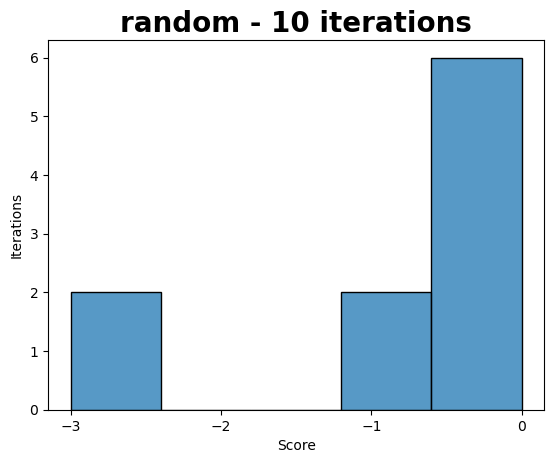
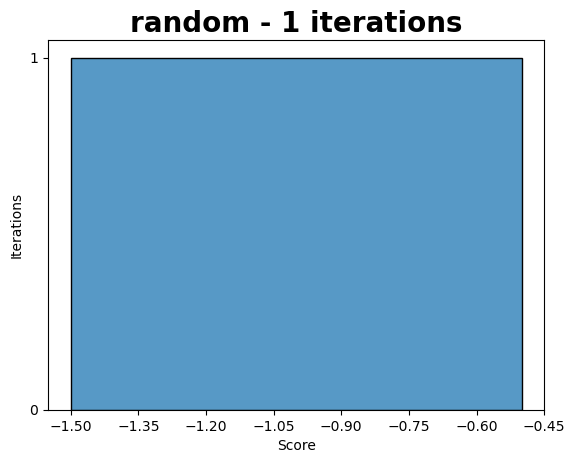
main experiments iterative

diff --git a/main.py b/main.py
@@ -89,15 +89,30 @@ def plot_hist(scores, filename, title):
     plt.show()
 
 
-if __name__ == "__main__":
-    # Check for the correct command line input
-    if len(argv) == 1:
-        print("Usage: python main.py [protein] (algorithm)")
-        exit(1)
+# if __name__ == "__main__":
+#     # Check for the correct command line input
+#     if len(argv) == 1:
+#         print("Usage: python main.py [protein] (algorithm)")
+#         exit(1)
     
-    filename = argv[1]
-    protein_file = f"data/input/{filename}.txt"
-    algorithm = argv[2]
+#     filename = argv[1]
+#     protein_file = f"data/input/{filename}.txt"
+#     algorithm = argv[2]
 
-    # Run experiment for specified algorithm
-    run(protein_file, iterations=10, algorithm=algorithm, show_vis=True)
+#     # Run experiment for specified algorithm
+#     run(protein_file, iterations=10, algorithm=algorithm, show_vis=True)
+
+if __name__ == "__main__":
+    # List of protein files
+    protein_files = ['amino1', 'amino2', 'amino3', 'amino4', 'amino5', 'amino6', 'amino7', 'amino8', 'amino9']
+        
+    # Check if command line arguments are present
+    if len(argv) > 1:
+        algorithm = argv[1]
+
+
+    for filename in protein_files:
+        protein_file = f"data/input/{filename}.txt"
+        
+        # Run experiment for specified algorithm
+        run(protein_file, iterations=100000, algorithm='random')
